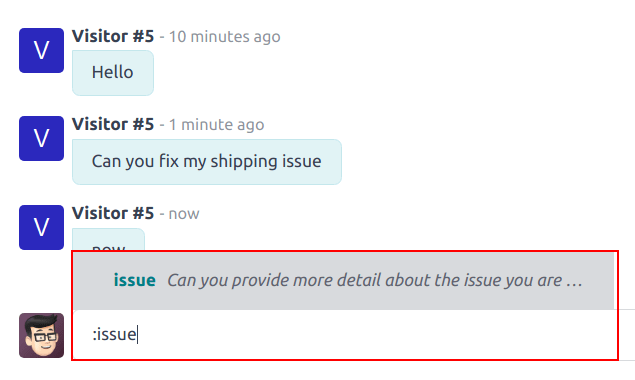
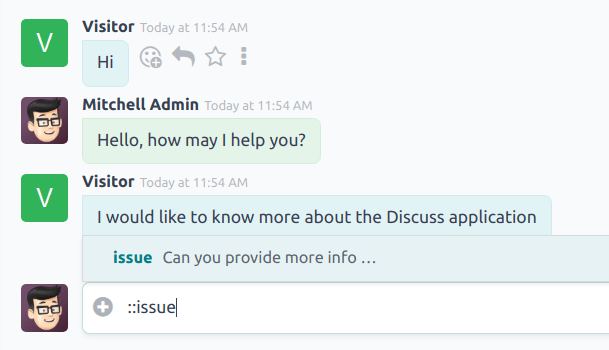
[IMP] Discuss: Canned responses
X-original-commit: 9ec9b88f76cb4c87bc871c0e40ed4f72dc41748e

Changed region(s): [[0.0312, 0.0571, 1.0, 0.9714]]

diff --git a/content/applications/productivity/discuss/canned_responses.rst b/content/applications/productivity/discuss/canned_responses.rst
@@ -13,20 +13,19 @@ is the keyword or key phrase that is to be replaced. The substitution is the lon
 replaces the shortcut.
 
 .. image:: canned_responses/canned-response-sample.png
-   :align: center
    :alt: A live chat conversation using a canned response.
 
-Canned responses are available :ref:`to use <discuss/use-cases>` in *Live Chat* conversations, the
-*Discuss* app, and the *Chatter* composer. This includes direct message conversations, channel
-conversations, and *WhatsApp* messages.
+Canned responses are available :ref:`to use <discuss/use-cases>` in **Live Chat** conversations, the
+**Discuss** app, and the *Chatter*. Canned responses are also available in direct message
+conversations, channel conversations, and *WhatsApp* messages.
 
 .. _discuss/created-canned-response:
 
 Creating canned responses
 =========================
 
-Canned responses are managed through the *Discuss* application. To create a new canned response, or
-manage the list of existing responses, navigate to :menuselection:`Discuss app --> Configuration
+Canned responses are managed through the **Discuss** application. To create a new canned response,
+or manage the list of existing responses, navigate to :menuselection:`Discuss app --> Configuration
 --> Canned Responses`.
 
 Then, to create a new canned response, click :guilabel:`New` at the top-left of the list. Doing so
@@ -36,7 +35,6 @@ Canned responses consist of two main components, a *shortcut* the user enters, a
 *substitution* that replaces the shortcut.
 
 .. image:: canned_responses/shortcut-substitution.png
-   :align: center
    :alt: A list of canned responses emphasizing the shortcut and substitution fields.
 
 Type a shortcut command in the :guilabel:`Shortcut` field. Next, click on the
@@ -78,9 +76,9 @@ canned response available for others to use, they need to be shared.
 
 .. note::
    Users with *Administrator* access rights can view and edit canned responses created by other
-   users through the *Discuss* app. However, they are **only** able to use them if they are included
-   in an authorized group that has been designated on that canned responses item line, located on
-   the :guilabel:`Canned Responses` page.
+   users through the **Discuss** app. However, they are **only** able to use them if they are
+   included in an authorized group that has been designated on that canned responses item line,
+   located on the :guilabel:`Canned Responses` page.
 
 Access to shared responses is granted on the :ref:`groups <access-rights/groups>` level.
 
@@ -108,24 +106,20 @@ response.
 Use a canned response
 =====================
 
-Canned responses can be used in the *Discuss* app, in a *Live Chat* conversation, or on any record
-that contains a *Chatter* composer. This includes direct message conversations, channel
-conversations, and *WhatsApp* messages.
-
-To use a canned response, type a colon (`:`) into a *Chatter* composer or chat window, followed by
-the shortcut. Then press :kbd:`Enter`. This replaces the shortcut with the substitution, though the
-response can still be edited before it is sent.
+To use a canned response in a conversation, click the :icon:`fa-plus-circle` :guilabel:`(plus)` icon
+in the message window. Then, click :guilabel:`Insert a Canned Response`. This opens a list of
+available canned responses. Either select a response from the list, or type the appropriate
+shortcut, then click the :icon:`fa-paper-plane` :guilabel:`(send)` icon or hit :kbd:`Enter`.
 
 .. tip::
-   Typing `:` in the *Chatter* composer, or chat window, on its own generates a drop-down list of
+   Typing `::` in the *Chatter* composer, or chat window, on its own generates a drop-down list of
    available canned responses. A response can be selected from the list, in addition to the use of
    shortcuts.
 
-   To search through the list of available responses, type `:`, followed by the first few letters of
-   the shortcut.
+   To search through the list of available responses, type `::`, followed by the first few letters
+   of the shortcut.
 
    .. image:: canned_responses/canned-responses-using.png
-      :align: center
       :alt: A live chat window with a list of all available canned responses.
 
 .. seealso::
